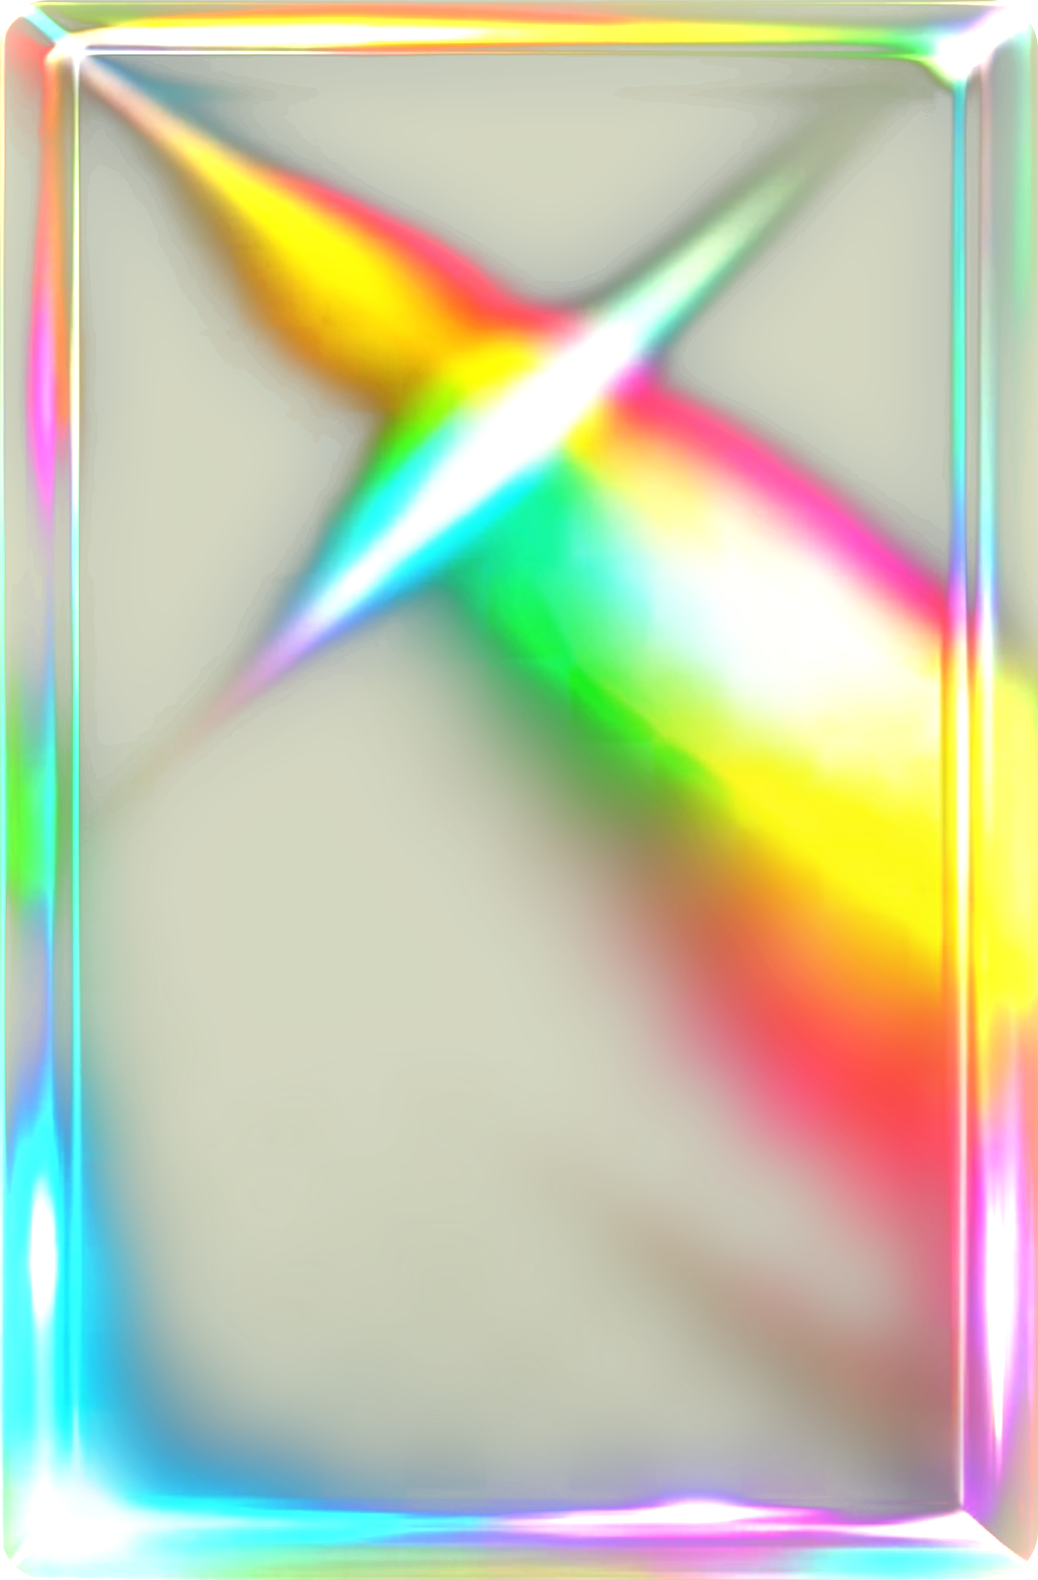
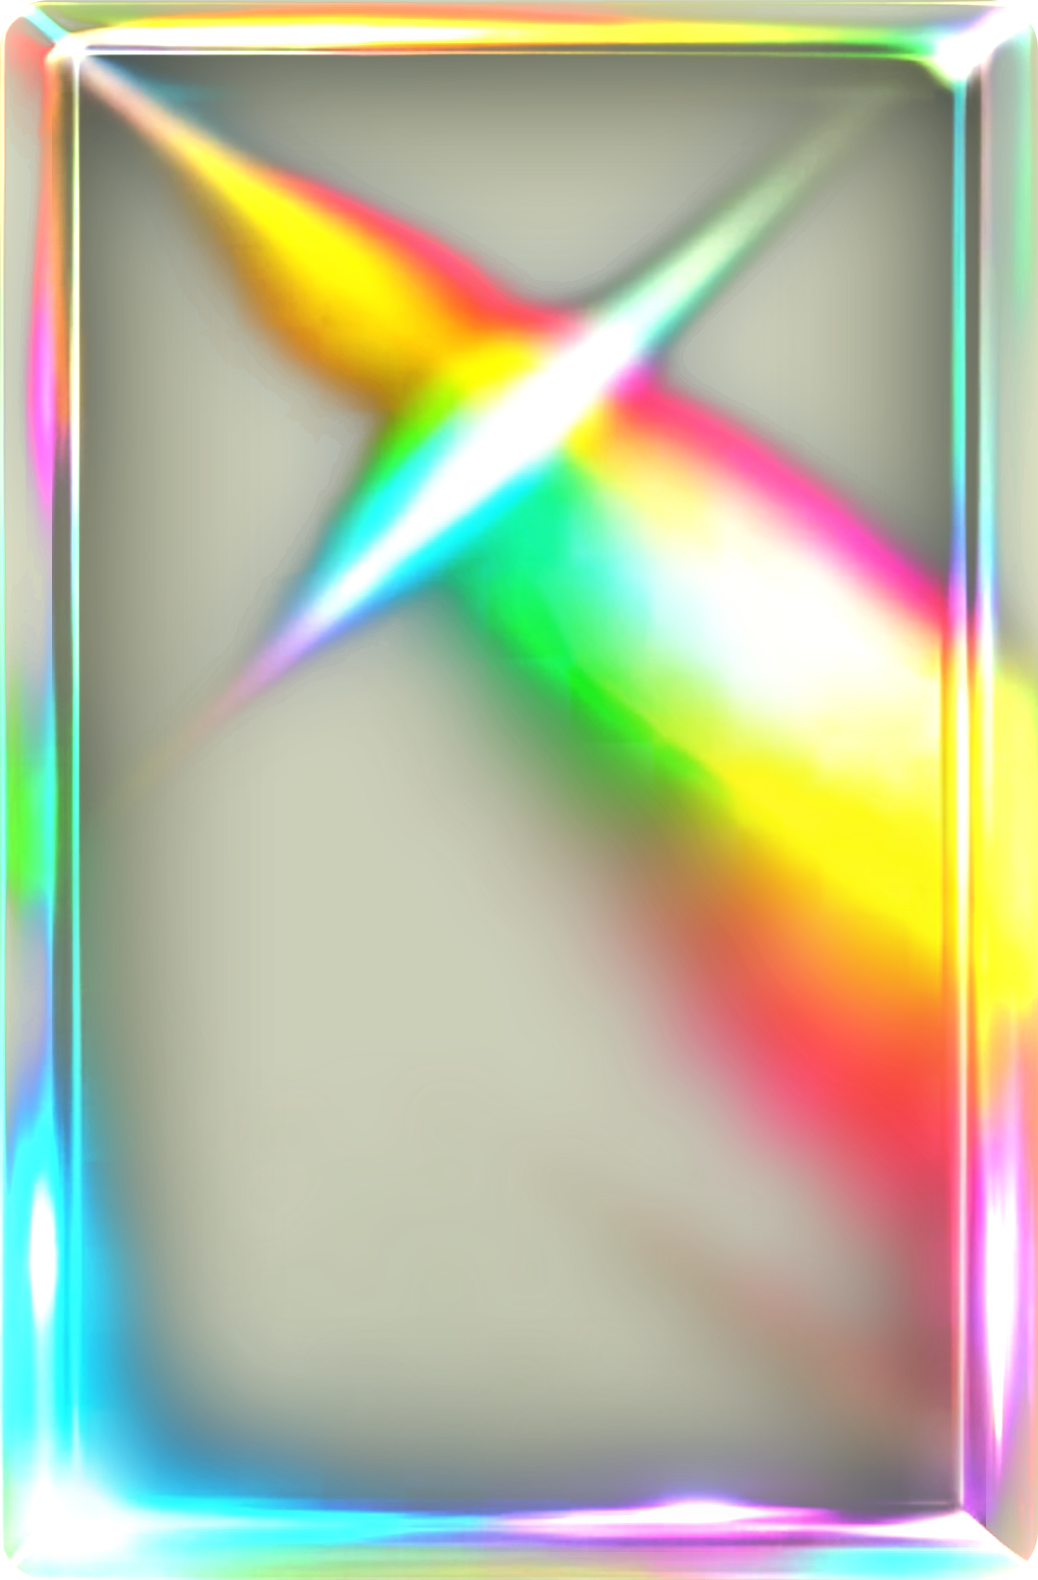
Update linlynn_portfolio (MeshChat Pages)

Changed region(s): [[0.0308, 0.0, 0.9557, 0.8684], [0.2775, 0.8684, 0.894, 0.9924], [0.8015, 0.7753, 0.9249, 0.8684]]

diff --git a/index.html b/index.html
@@ -31,7 +31,7 @@
             position: relative;
             width: 100vw;
             height: 100vh;
-            background: #0b0c10 url('room_bg.jpg') no-repeat center center;
+            background: #0b0c10 url('images/room_bg.jpg') no-repeat center center;
             background-size: cover;
             overflow: hidden;
         }
@@ -291,7 +291,7 @@
             width: 100%;
             height: 100%;
             background: radial-gradient(circle at center, rgba(15, 17, 25, 0.78) 0%, rgba(7, 8, 12, 0.96) 100%), 
-                        url('room_bg.jpg') no-repeat center center;
+                        url('images/room_bg.jpg') no-repeat center center;
             background-size: cover;
             backdrop-filter: blur(20px);
             pointer-events: none;
@@ -434,13 +434,13 @@
     <script>
         // Danh sách 7 sợi charm trên băng chuyền vòng tròn
         const chainsData = [
-            { id: 'drop_purple', name: 'Giọt Nước Tím', img: 'Layer 2.png' },     // 0
-            { id: 'moon', name: 'Trăng Khuyết Tím', img: 'Layer 1.png' },          // 1
-            { id: 'sphere', name: 'Quả Cầu Pha Lê', img: 'Layer 3.png' },       // 2
-            { id: 'sun', name: 'Mặt Trời Vàng', img: 'Layer 8.png' },              // 3
-            { id: 'teardrop', name: 'Giọt Ngọc Aquamarine', img: 'Layer 5.png' }, // 4
-            { id: 'heart', name: 'Trái Tim Hồng', img: 'Layer 7.png' },            // 5
-            { id: 'star', name: 'Ngôi Sao Pha Lê', img: 'Layer 9.png' }           // 6
+            { id: 'drop_purple', name: 'Giọt Nước Tím', img: 'images/Layer 2.png' },     // 0
+            { id: 'moon', name: 'Trăng Khuyết Tím', img: 'images/Layer 1.png' },          // 1
+            { id: 'sphere', name: 'Quả Cầu Pha Lê', img: 'images/Layer 3.png' },       // 2
+            { id: 'sun', name: 'Mặt Trời Vàng', img: 'images/Layer 8.png' },              // 3
+            { id: 'teardrop', name: 'Giọt Ngọc Aquamarine', img: 'images/Layer 5.png' }, // 4
+            { id: 'heart', name: 'Trái Tim Hồng', img: 'images/Layer 7.png' },            // 5
+            { id: 'star', name: 'Ngôi Sao Pha Lê', img: 'images/Layer 9.png' }           // 6
         ];
 
         let currentOffset = 0;
@@ -449,11 +449,11 @@
         // Định nghĩa 7 vị trí 3D trên băng chuyền vòng tròn (Parallax 3D thực thụ: tọa độ X, độ sâu Z, scale, brightness, blur, opacity)
         const slotConfigs = [
             { left: 18, zIndex: 3, scale: 0.65, brightness: 0.5, blur: 5, opacity: 0.35, isFront: false }, // Slot 1 (sau xa trái)
-            { left: 30, zIndex: 6, scale: 0.82, brightness: 1.0, blur: 0, opacity: 1.0, isFront: true  }, // Slot 2 (trước trái - có nhãn)
+            { left: 30, zIndex: 6, scale: 0.90, brightness: 1.0, blur: 0, opacity: 1.0, isFront: true  }, // Slot 2 (trước trái - có nhãn)
             { left: 42, zIndex: 4, scale: 0.72, brightness: 0.6, blur: 3, opacity: 0.50, isFront: false }, // Slot 3 (sau giữa-trái)
-            { left: 50, zIndex: 7, scale: 0.92, brightness: 1.1, blur: 0, opacity: 1.0, isFront: true  }, // Slot 4 (trước chính giữa - có nhãn)
+            { left: 50, zIndex: 7, scale: 1.00, brightness: 1.1, blur: 0, opacity: 1.0, isFront: true  }, // Slot 4 (trước chính giữa - có nhãn)
             { left: 58, zIndex: 4, scale: 0.72, brightness: 0.6, blur: 3, opacity: 0.50, isFront: false }, // Slot 5 (sau giữa-phải)
-            { left: 70, zIndex: 6, scale: 0.82, brightness: 1.0, blur: 0, opacity: 1.0, isFront: true  }, // Slot 6 (trước phải - có nhãn)
+            { left: 70, zIndex: 6, scale: 0.90, brightness: 1.0, blur: 0, opacity: 1.0, isFront: true  }, // Slot 6 (trước phải - có nhãn)
             { left: 82, zIndex: 3, scale: 0.65, brightness: 0.5, blur: 5, opacity: 0.35, isFront: false }  // Slot 7 (sau xa phải)
         ];
 
@@ -1004,7 +1004,7 @@
                 this.renderer.setPixelRatio(Math.min(window.devicePixelRatio, 2));
                 this.container.appendChild(this.renderer.domElement);
 
-                this.frameTexture = this.textureLoader.load('khung.png');
+                this.frameTexture = this.textureLoader.load('images/khung.png');
             }
 
             initEvents() {
@@ -1080,12 +1080,12 @@
                     const frameMaterial = new THREE.MeshBasicMaterial({
                         map: this.frameTexture,
                         transparent: true,
-                        blending: THREE.NormalBlending,
+                        blending: THREE.AdditiveBlending,
                         depthWrite: false,
                         side: THREE.DoubleSide
                     });
                     const frameMesh = new THREE.Mesh(frameGeo, frameMaterial);
-                    frameMesh.position.set(0, 0, -0.02);
+                    frameMesh.position.set(0, 0, 0.02);
                     cardGroup.add(frameMesh);
 
                     const total = items.length;
@@ -1097,7 +1097,7 @@
                     const defaultZ = index * 0.14;
 
                     const defaultRotY = -0.45;
-                    const defaultRotX = 0;
+                    const defaultRotX = 0.15;
 
                     cardGroup.position.set(defaultX, defaultY, defaultZ);
                     cardGroup.rotation.set(defaultRotX, defaultRotY, 0);
